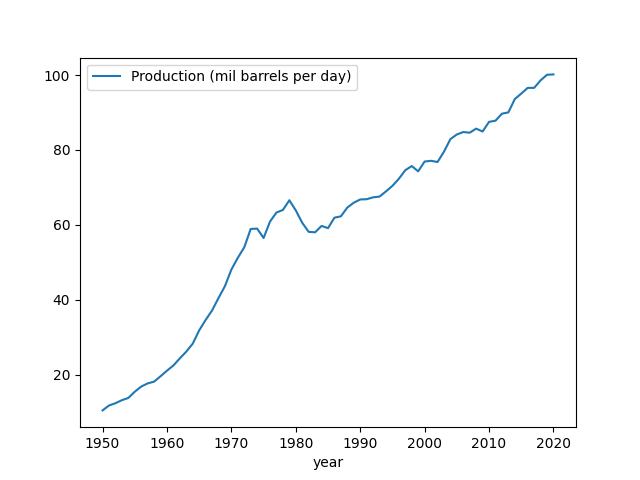
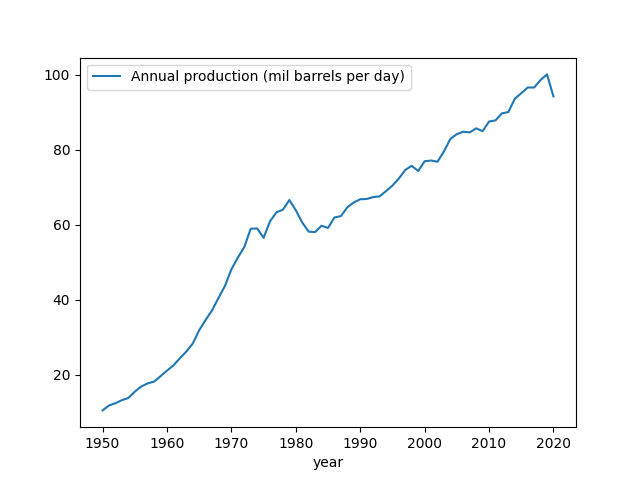
-

diff --git a/en/2019/05/stats.md b/en/2019/05/stats.md
@@ -720,7 +720,7 @@ plt.savefig('opec.png')
 ```python
 import pandas as pd
 df = pd.read_csv('world-crude.csv',sep='\s', comment='#',index_col=0)
-df.columns = ['Production (mil barrels per day)']
+df.columns = ['Annual production (mil barrels per day)']
 df.plot()
 plt.savefig('crude-production.png')
 ```
